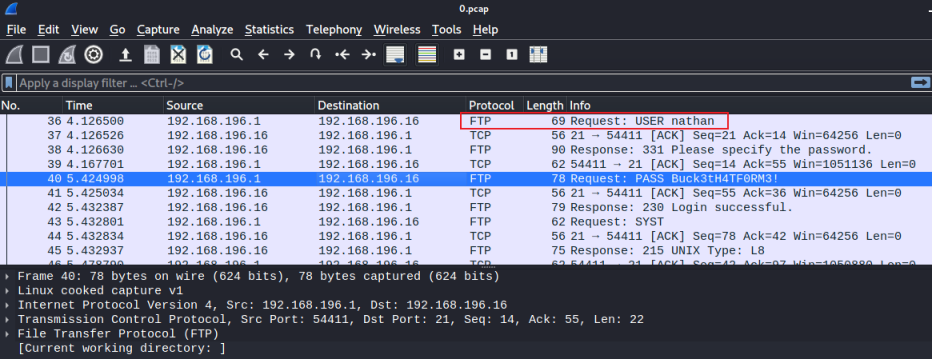
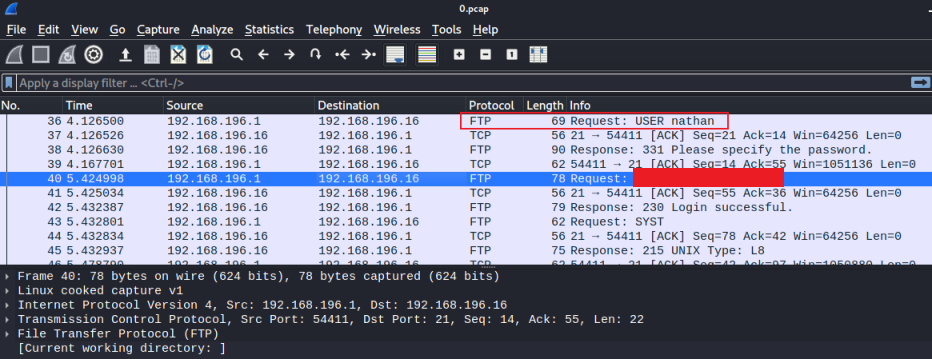
first draft

Changed region(s): [[0.6534, 0.4596, 0.8401, 0.5209]]

diff --git a/_posts/2021-09-28-ctf-htb-cap.md b/_posts/2021-09-28-ctf-htb-cap.md
@@ -153,7 +153,7 @@ With it being so small we quickly find credentials:
 
 ```text
 36	4.126500	192.168.196.1	192.168.196.16	FTP	69	Request: USER nathan
-40	5.424998	192.168.196.1	192.168.196.16	FTP	78	Request: PASS Buck3tH4TF0RM3!
+40	5.424998	192.168.196.1	192.168.196.16	FTP	78	Request: PASS <HIDDEN>
 ```
 
 ## FTP Access
@@ -203,7 +203,7 @@ nathan@cap:~$ ls -ls
 4 -r-------- 1 nathan nathan 33 Sep 25 17:37 user.txt
 
 nathan@cap:~$ cat user.txt 
-4d1b97995472dc71ab65930c2e713d9a
+<HIDDEN>
 ```
 
 ## LinPEAS Enumeration
@@ -296,7 +296,7 @@ There, as simple as that and we're now root. Let's grab the flag:
 
 ```text
 root@cap:~# cat /root/root.txt
-c4035a6fa432af188462b88e74d854c6
+<HIDDEN>
 ```
 
 That was a nice. I hope you enjoyed it and many thanks to [InfoSecJack](https://twitter.com/InfoSecJack) for creating the box.
